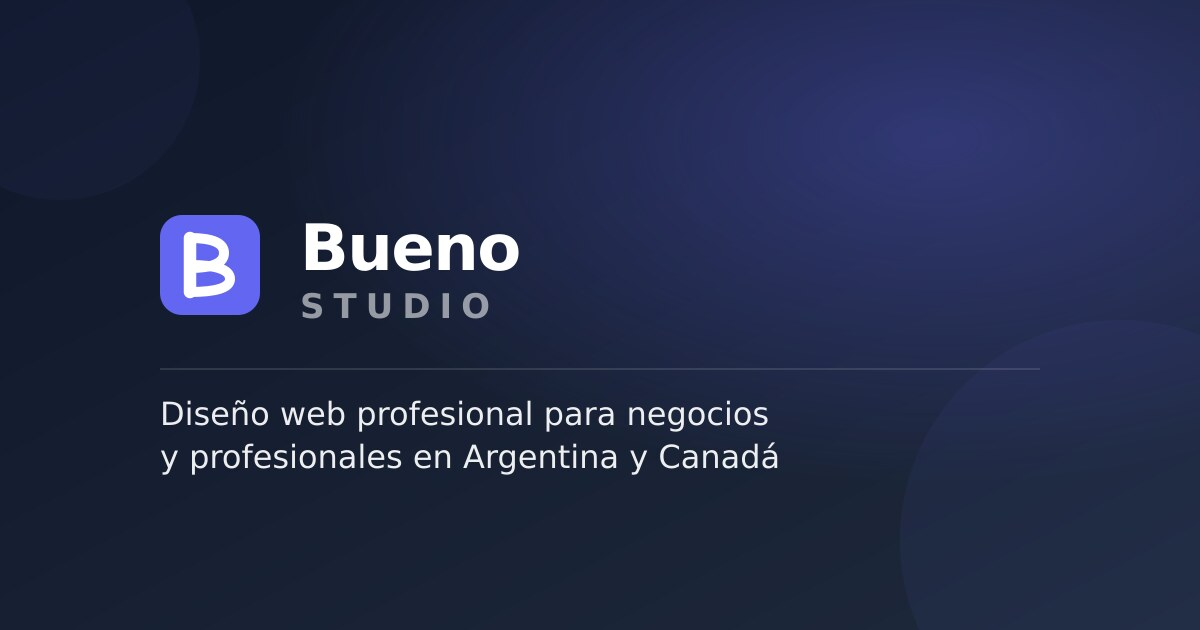
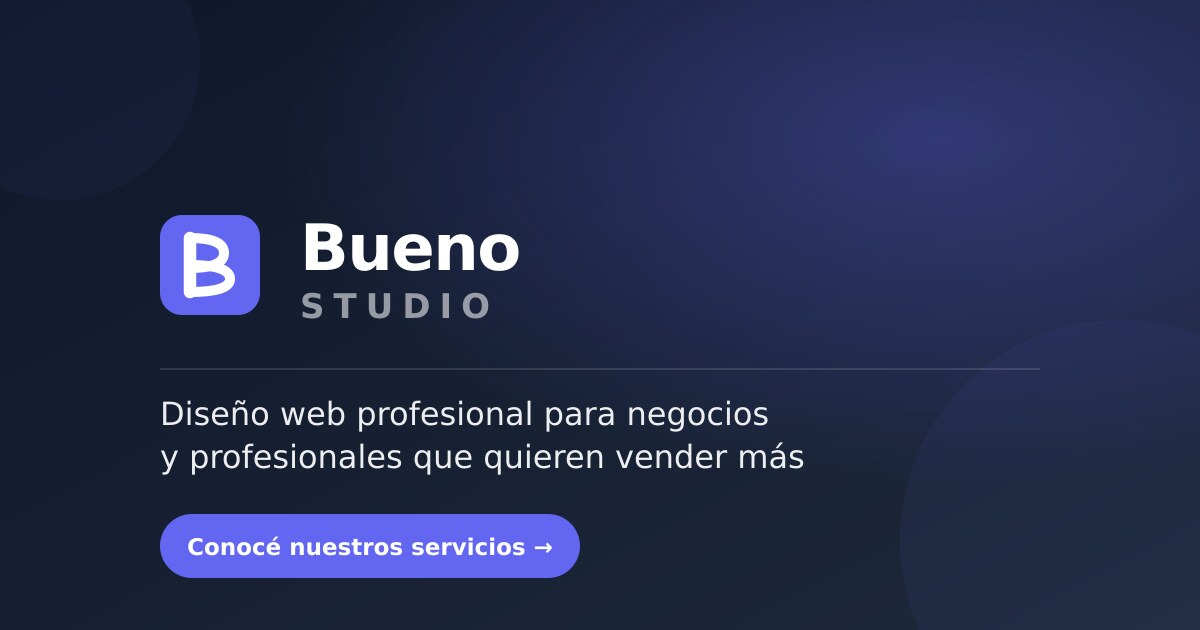
Remove Argentina/Canada geography mentions from ES copy, update og:image with new CTA

Changed region(s): [[0.1233, 0.8143, 0.4933, 0.9349], [0.3392, 0.6937, 0.6783, 0.754]]

diff --git a/index.html b/index.html
@@ -26,7 +26,7 @@
     />
     <meta
       name="description"
-      content="Bueno Studio — Diseño web profesional para negocios y profesionales en Argentina y Canadá."
+      content="Bueno Studio — Diseño web profesional y SEO para negocios y profesionales independientes."
     />
     <!-- Canonical -->
     <link rel="canonical" href="https://thebuenostudio.com/" />
@@ -89,7 +89,6 @@
           "addressCountry": "CA"
         },
         "areaServed": [
-          { "@type": "Country", "name": "Argentina" },
           { "@type": "Country", "name": "Canada" }
         ],
         "contactPoint": {
@@ -216,7 +215,7 @@
     <!-- HERO -->
     <section class="hero" id="hero">
       <div class="hero-container">
-        <p class="hero-tag" data-key="hero.tag">Argentina · Canadá</p>
+        <p class="hero-tag" data-key="hero.tag">Diseño Web · SEO · Crecimiento</p>
         <h1 class="hero-headline" data-key="hero.headline">
           Llevamos tu negocio<br />al mundo digital.
         </h1>
@@ -490,8 +489,8 @@
             orientadas a resultados — más ventas, más clientes, más presencia.
           </p>
           <p class="about-body" data-key="about.body2">
-            Operamos en Argentina y Canadá, entendiendo las necesidades de cada
-            mercado.
+            Trabajamos con comercios y profesionales independientes que
+            buscan vender más y posicionarse mejor online.
           </p>
           <p class="about-tagline" data-key="about.tagline">
             "Del mundo analógico al digital, sin complicaciones."
@@ -539,7 +538,7 @@
               Mandanos un email
             </a>
           </div>
-          <p class="contact-note" data-key="contact.note">Argentina · Canadá</p>
+          <p class="contact-note" data-key="contact.note">Atención personalizada, sin vueltas.</p>
         </div>
       </div>
     </section>

diff --git a/js/main.js b/js/main.js
@@ -16,7 +16,7 @@ const translations = {
       cta: "Hablemos"
     },
     hero: {
-      tag: "Argentina · Canadá",
+      tag: "Diseño Web · SEO · Crecimiento",
       headline: "Llevamos tu negocio<br>al mundo digital.",
       sub: "Diseño web profesional para negocios y profesionales que quieren vender más online.",
       cta1: "Hablemos por WhatsApp",
@@ -63,7 +63,7 @@ const translations = {
     about: {
       title: "Bueno Studio",
       body: "Ayudamos a negocios y profesionales a dar el salto digital. Nos especializamos en soluciones web prácticas, rápidas de implementar y orientadas a resultados — más ventas, más clientes, más presencia.",
-      body2: "Operamos en Argentina y Canadá, entendiendo las necesidades de cada mercado.",
+      body2: "Trabajamos con comercios y profesionales independientes que buscan vender más y posicionarse mejor online.",
       tagline: '"Del mundo analógico al digital, sin complicaciones."'
     },
     contact: {
@@ -71,7 +71,7 @@ const translations = {
       sub: "Contanos sobre tu proyecto y te respondemos rápido.",
       whatsapp: "Escribinos por WhatsApp",
       email: "Mandanos un email",
-      note: "Argentina · Canadá"
+      note: "Atención personalizada, sin vueltas."
     },
     footer: {
       copy: "© 2026 Bueno Studio. Todos los derechos reservados."